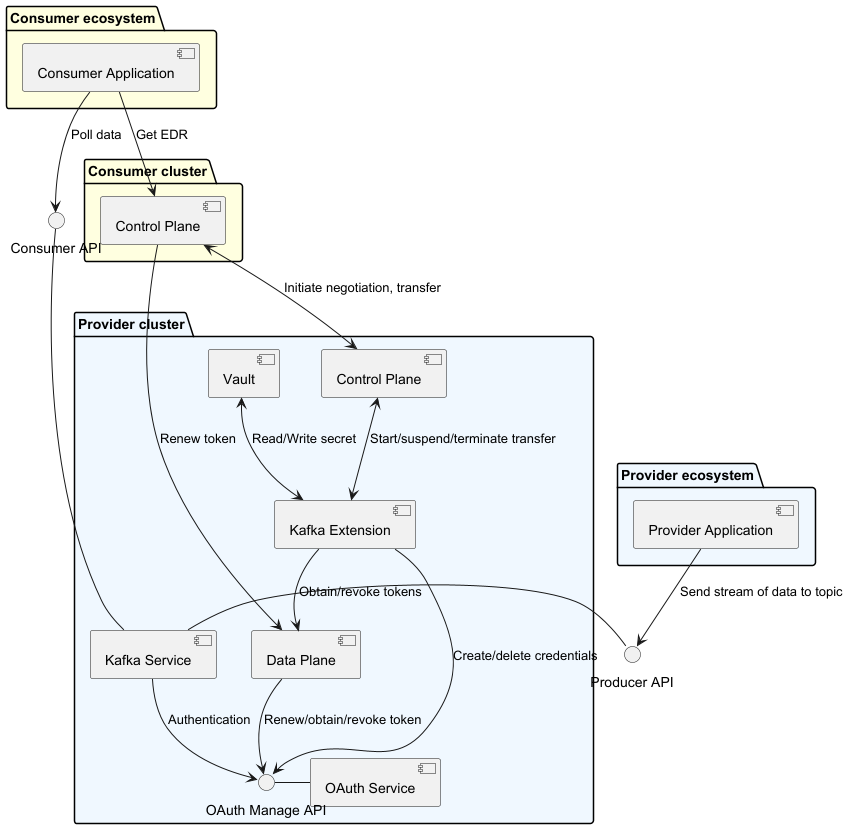
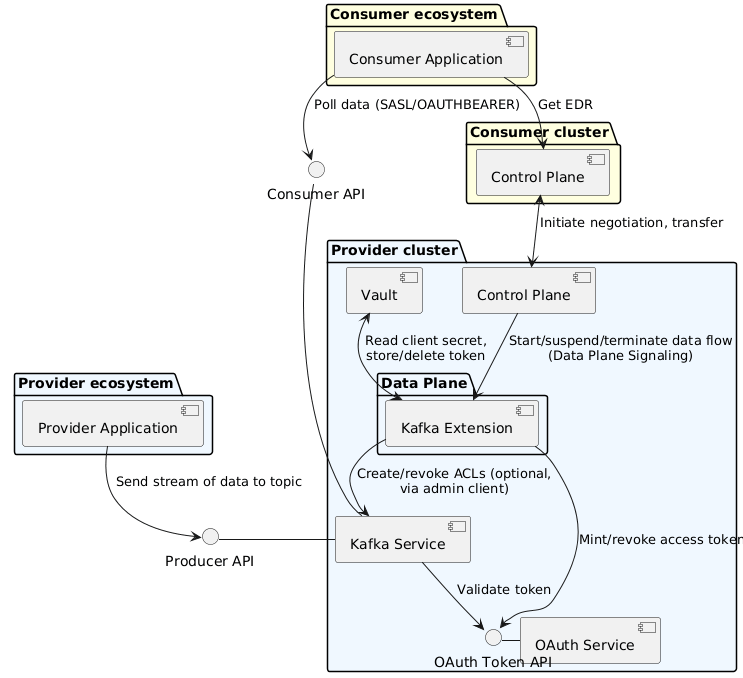
docs(kafka): align docs with data-plane lifecycle and wiring

diff --git a/edc-extensions/dataplane/kafka/kafka-broker-extension/src/main/java/org/eclipse/tractusx/edc/dataplane/kafka/provision/KafkaDeprovisioner.java b/edc-extensions/dataplane/kafka/kafka-broker-extension/src/main/java/org/eclipse/tractusx/edc/dataplane/kafka/provision/KafkaDeprovisioner.java
@@ -44,8 +44,8 @@ import static org.eclipse.tractusx.edc.dataplane.kafka.provision.KafkaProvisionC
 
 /**
  * Data-plane {@link Deprovisioner} for {@code KafkaBroker} flows: revokes the broker ACLs and the OAuth2
- * token on suspend/terminate, closing the access window independently of token expiry. Cleanup is
- * idempotent — a missing token or untracked ACLs is treated as success.
+ * token when the flow is deprovisioned on terminate, closing the access window independently of token
+ * expiry. Cleanup is idempotent — a missing token or untracked ACLs is treated as success.
  */
 public class KafkaDeprovisioner implements Deprovisioner {
 

diff --git a/docs/development/kafka-streaming/README.md b/docs/development/kafka-streaming/README.md
@@ -6,7 +6,7 @@ data-plane extension and ships in the standard `tractusx-connector` runtime (via
 so it does not require a separate deployment.
 
 Unlike a proxied transfer, data flows **directly** from the provider's Kafka broker to the consumer.
-The EDC control plane stays in charge of access: the extension provisions short-lived OAuth2
+The EDC stays in charge of access: the data-plane extension provisions short-lived OAuth2
 credentials (and, optionally, Kafka ACLs) for the duration of a negotiated transfer, so the provider
 retains full control over the consumer's access throughout.
 
@@ -22,7 +22,7 @@ retains full control over the consumer's access throughout.
   * [D. Suspending/Terminating](#d-suspendingterminating)
 * [DataAddress Schema](#dataaddress-schema)
 * [Configuration](#configuration)
-  * [EDC control plane properties](#edc-control-plane-properties)
+  * [EDC data plane properties](#edc-data-plane-properties)
   * [Kafka broker](#kafka-broker)
   * [Keycloak](#keycloak)
 * [Security and Token Model](#security-and-token-model)
@@ -93,12 +93,13 @@ The transfer is defined by four phases, each illustrated by a sequence diagram.
 **Purpose:** securely create or delete consumer credentials.
 
 1. **Provisioning:** the Consumer Control Plane sends a `TransferRequestMessage` to the Provider
-   Control Plane, which forwards a `ProvisionRequest` to the Kafka Extension. The extension calls the
-   OAuth Service to create credentials, stores them in the Vault, and a `ProvisionResponse` is
-   returned to the consumer.
-2. **Deprovisioning:** when the transfer concludes, the Provider Control Plane issues a
-   `DeprovisionRequest`; the Kafka Extension deletes the credentials via the OAuth Service, clears the
-   Vault entries, and returns a `DeprovisionResponse`.
+   Control Plane, which sends a `DataFlowStartMessage` (Data Plane Signaling) to the data plane.
+   There the Kafka Extension reads the OAuth2 client secret from the Vault, obtains a short-lived
+   access token from the OAuth Service, stores it in the Vault, and returns the provisioned Kafka
+   `DataAddress` in the `DataFlowResponseMessage`.
+2. **Deprovisioning:** when the transfer is terminated, the Provider Control Plane signals the
+   termination to the data plane; the Kafka Extension revokes the token via the OAuth Service and
+   deletes it from the Vault.
 
 ![Sequence diagram EDC Kafka Extension provisioning-deprovisioning](diagrams/Sequence%20diagram%20EDC%20Kafka%20Extension%20provisioning-deprovisioning.png)
 
@@ -108,12 +109,13 @@ The transfer is defined by four phases, each illustrated by a sequence diagram.
 
 1. The Consumer Control Plane instructs the Provider Control Plane to start the transfer; the Provider
    Control Plane performs policy and contract verification.
-2. The Provider Control Plane sends a `DataFlowRequest` to the Kafka Extension, which requests a fresh
-   OAuth2 access token from the OAuth Service via the Client Credentials flow (no refresh token) and
-   creates a `DataAddress` containing the connection details (bootstrap servers, topic, security
-   protocol, SASL mechanism, OAuth token, poll duration, consumer group prefix, and contract id). The
-   Provider Control Plane then sends a `TransferStartMessage` with the complete DataAddress to the
-   Consumer Control Plane, which constructs the final EDR.
+2. The Provider Control Plane sends a `DataFlowStartMessage` (Data Plane Signaling) to the data
+   plane, where the Kafka Extension requests a fresh OAuth2 access token from the OAuth Service via
+   the Client Credentials flow (no refresh token) and creates a `DataAddress` containing the
+   connection details (bootstrap servers, topic, security protocol, SASL mechanism, OAuth token,
+   poll duration, and consumer group prefix). The Provider Control Plane then sends a
+   `TransferStartMessage` with the complete DataAddress to the Consumer Control Plane, which
+   constructs the final EDR.
 
 ![Sequence diagram EDC Kafka Extension start transfer process](diagrams/Sequence%20diagram%20EDC%20Kafka%20Extension%20start%20transfer%20process.png)
 
@@ -132,9 +134,11 @@ new token.
 
 **Purpose:** securely suspend or terminate the transfer by revoking consumer credentials.
 
-The Provider Control Plane sends a suspend/terminate message to the Kafka Extension, which calls the
-OAuth Service to revoke the token and (when ACL management is enabled) revokes the consumer's ACLs.
-The Consumer Control Plane is notified that the transfer has been suspended or terminated.
+The Provider Control Plane signals the suspension or termination to the data plane. On suspend, the
+Kafka Extension revokes the consumer's ACLs (when ACL management is enabled); the short-lived token
+remains valid until it expires, and a resume re-creates the ACLs. On terminate, the extension
+additionally calls the OAuth Service to revoke the token and removes it from the Vault. The Consumer
+Control Plane is notified that the transfer has been suspended or terminated.
 
 ![Sequence diagram EDC Kafka Extension suspending-terminating](diagrams/Sequence%20diagram%20EDC%20Kafka%20Extension%20suspending-terminating.png)
 
@@ -154,7 +158,7 @@ A Kafka asset is published with a `DataAddress` of type `KafkaBroker`:
 | `https://w3id.org/edc/v0.0.1/ns/clientSecretKey` | Vault entry key for the OAuth2 client secret | Yes |
 | `https://w3id.org/edc/v0.0.1/ns/revokeUrl` | OAuth2 token revocation endpoint | No |
 | `https://w3id.org/edc/v0.0.1/ns/kafka.poll.duration` | ISO-8601 consumer poll duration (default `PT1S`) | No |
-| `https://w3id.org/edc/v0.0.1/ns/kafka.group.prefix` | Consumer group prefix the consumer is authorized to use; also scopes the consumer-group ACL. Defaults to the consumer BPN (policy assignee) when omitted. | No |
+| `https://w3id.org/edc/v0.0.1/ns/kafka.group.prefix` | Consumer group prefix the consumer is authorized to use; also scopes the consumer-group ACL. Defaults to the consumer participant id when omitted. | No |
 
 > Property keys may be written as full IRIs (as in the table above) or with the `edc:` prefix (as in the
 > example below); both are equivalent after JSON-LD expansion.
@@ -183,7 +187,7 @@ Example asset registration:
 
 ## Configuration
 
-### EDC control plane properties
+### EDC data plane properties
 
 | Property | Description | Default |
 |---|---|---|
@@ -235,8 +239,9 @@ The extension uses the OAuth2 Client Credentials flow:
    client credentials.
 2. The returned JWT is stored in the EDC Vault keyed by the transfer process id.
 3. The token is included in the EDR sent to the consumer.
-4. On suspend or terminate, the extension calls the token revocation URL (if configured) and deletes
-   the token from the Vault.
+4. On terminate, the extension calls the token revocation URL (if configured) and deletes the token
+   from the Vault. On suspend, broker access is cut by revoking the consumer's ACLs (when ACL
+   management is enabled) while the short-lived token simply expires.
 
 ### Token expiry and revocation
 
@@ -256,11 +261,11 @@ When `edc.dataplane.kafka.acl.enabled=true`:
 1. On transfer start, the extension extracts the `sub` claim from the JWT (used as the Kafka
    principal, `User:<sub>`).
 2. It creates three ACL bindings for that principal: `READ` and `DESCRIBE` on the topic, and `READ` on
-   the consumer group prefix (the `kafka.group.prefix`, defaulting to the consumer BPN) — the same
+   the consumer group prefix (the `kafka.group.prefix`, defaulting to the consumer participant id) — the same
    prefix handed to the consumer in the EDR, so the broker grant matches what the consumer is told to
    use.
 3. On suspend/terminate, the ACLs are revoked immediately — closing the access window even before the
-   token expires.
+   token expires. On resume they are re-created.
 
 See the [Hybrid OAuth2 + Kafka ACL Security](../decision-records/kafka-streaming/2025-07-11-kafka-hybrid-acl-security/README.md)
 decision record for the rationale.
@@ -306,12 +311,12 @@ particular [Modules, Runtimes, and Components](https://eclipse-edc.github.io/doc
 ## Troubleshooting
 
 **Connection issues**
-- Verify Kafka bootstrap servers are reachable from the EDC control plane.
+- Verify Kafka bootstrap servers are reachable from the EDC data plane.
 - Check that the security protocol and SASL mechanism match the broker configuration.
 
 **Authentication issues**
 - Verify the OAuth2 client credentials are correct and stored in the Vault.
-- Check that the token URL is reachable from the EDC control plane.
+- Check that the token URL is reachable from the EDC data plane.
 - Confirm the Vault key name matches `clientSecretKey` in the data address.
 
 **ACL issues** (only when ACL management is enabled)

diff --git a/edc-extensions/dataplane/kafka/kafka-broker-extension/README.md b/edc-extensions/dataplane/kafka/kafka-broker-extension/README.md
@@ -24,15 +24,18 @@ via a provisioner and an EDR service. The provisioning lifecycle:
 1. **start** — provisions a fresh OAuth2 access token via the Client Credentials
    flow, stores it in the provider vault keyed by the transfer process id, and
    returns an EDR containing the bootstrap servers, topic, security protocol, SASL
-   mechanism, consumer group prefix, poll duration, contract id, and token. When ACL
+   mechanism, consumer group prefix, poll duration, and token. When ACL
    management is enabled, it also creates the consumer's Kafka ACLs.
-2. **suspend / terminate** — revokes the token at the OAuth2 server's revocation
-   endpoint (if a `revokeUrl` is configured), removes it from the vault, and — when
-   ACL management is enabled — revokes the consumer's ACLs.
+2. **suspend** — revokes the consumer's ACLs (when ACL management is enabled), cutting
+   broker access immediately; the short-lived token itself stays in the vault and remains
+   valid until it expires. On **resume** the ACLs are re-created.
+3. **terminate** — revokes the token at the OAuth2 server's revocation endpoint (if a
+   `revokeUrl` is configured), removes it from the vault, and — when ACL management is
+   enabled — revokes the consumer's ACLs.
 
 ## Configuration
 
-Kafka ACL management is optional and disabled by default. When enabled, the control plane manages
+Kafka ACL management is optional and disabled by default. When enabled, the data plane manages
 broker-level authorization for each transfer through a Kafka admin client. The following settings configure
 that admin client (see also the [Kafka Streaming documentation](../../../../docs/development/kafka-streaming/README.md#configuration)):
 
@@ -51,19 +54,19 @@ enabled (`edc.dataplane.kafka.acl.enabled=true`).
 
 When creating a Kafka asset, use the following properties in the `DataAddress`:
 
-| Key                       | Description                                                                                            | Mandatory |
-|---------------------------|--------------------------------------------------------------------------------------------------------|-----------|
-| `type`                    | Identifier of Kafka data address. Must be `KafkaBroker`.                                               | yes       |
-| `topic`                   | The Kafka topic the consumer is allowed to poll.                                                       | yes       |
-| `kafka.bootstrap.servers` | Kafka bootstrap servers.                                                                               | yes       |
-| `kafka.sasl.mechanism`    | SASL mechanism, typically `OAUTHBEARER`.                                                               | yes       |
-| `kafka.security.protocol` | `SASL_PLAINTEXT` or `SASL_SSL`.                                                                        | yes       |
-| `kafka.poll.duration`     | ISO-8601 polling duration (e.g. `PT10S`). Defaults to 1 second.                                        | no        |
-| `kafka.group.prefix`      | Consumer group prefix the consumer is authorized to use. Defaults to the consumer BPN (policy assignee).| no        |
-| `tokenUrl`                | OAuth2 token endpoint for retrieving access tokens.                                                    | yes       |
-| `revokeUrl`               | OAuth2 token revocation endpoint. If omitted, token revocation is skipped.                             | no        |
-| `clientId`                | OAuth2 client ID.                                                                                      | yes       |
-| `clientSecretKey`         | Vault entry containing the OAuth2 client secret for `clientId`.                                        | yes       |
+| Key                       | Description                                                                                       | Mandatory |
+|---------------------------|---------------------------------------------------------------------------------------------------|-----------|
+| `type`                    | Identifier of Kafka data address. Must be `KafkaBroker`.                                          | yes       |
+| `topic`                   | The Kafka topic the consumer is allowed to poll.                                                  | yes       |
+| `kafka.bootstrap.servers` | Kafka bootstrap servers.                                                                          | yes       |
+| `kafka.sasl.mechanism`    | SASL mechanism, typically `OAUTHBEARER`.                                                          | yes       |
+| `kafka.security.protocol` | `SASL_PLAINTEXT` or `SASL_SSL`.                                                                   | yes       |
+| `kafka.poll.duration`     | ISO-8601 polling duration (e.g. `PT10S`). Defaults to 1 second.                                   | no        |
+| `kafka.group.prefix`      | Consumer group prefix the consumer is authorized to use. Defaults to the consumer participant id. | no        |
+| `tokenUrl`                | OAuth2 token endpoint for retrieving access tokens.                                               | yes       |
+| `revokeUrl`               | OAuth2 token revocation endpoint. If omitted, token revocation is skipped.                        | no        |
+| `clientId`                | OAuth2 client ID.                                                                                 | yes       |
+| `clientSecretKey`         | Vault entry containing the OAuth2 client secret for `clientId`.                                   | yes       |
 
 The `clientSecretKey` property must point to a vault entry holding the OAuth2
 client secret. The client must have permission to read the configured topic.

diff --git a/docs/development/decision-records/kafka-streaming/2026-04-30-kafka-streaming-extension/README.md b/docs/development/decision-records/kafka-streaming/2026-04-30-kafka-streaming-extension/README.md
@@ -59,10 +59,11 @@ the upstream convention used by `dataplane-proxy-http`. There is no separate
 
 Each transfer mints a fresh OAuth2 access token via the Client Credentials flow.
 The token is stored in the provider vault keyed by the transfer process id, and
-included in the EDR returned to the consumer. On suspend/terminate, the extension calls
-the provider's OAuth2 revocation endpoint and removes the token from the vault; because
-the broker validates the JWT by signature and expiry, immediate broker-level cutoff is
-provided by ACL revocation (see below), otherwise access ends at the token's TTL.
+included in the EDR returned to the consumer. On terminate, the extension calls
+the provider's OAuth2 revocation endpoint and removes the token from the vault; suspend
+leaves the token untouched. Because the broker validates the JWT by signature and expiry,
+immediate broker-level cutoff on suspend/terminate is provided by ACL revocation (see
+below), otherwise access ends at the token's TTL.
 
 ### Kafka ACL management
 
@@ -77,11 +78,13 @@ window independently of token expiry. The ACL admin client is configured via the
 
 ### Runtime wiring
 
-`kafka-broker-extension` is a data-plane extension and is added as a `runtimeOnly` dependency of
-`edc-dataplane-base`; `validator-data-address-kafka` stays on `edc-controlplane-base` (DataAddress
+`kafka-broker-extension` is a data-plane extension and is wired into `edc-dataplane-base` as an
+`implementation` project dependency (matching the other bundled extensions);
+`validator-data-address-kafka` is wired into `edc-controlplane-base` the same way (DataAddress
 validation at asset creation). On EDC 0.16.0 the extension registers a `ResourceDefinitionGenerator`
-plus a `Provisioner`/`Deprovisioner` (mint the OAuth token, create/revoke Kafka ACLs) and an
-`EndpointDataReferenceService` that returns the broker EDR. There is no proxied data plane — the
+plus a `Provisioner`/`Deprovisioner` (mint and revoke the OAuth token) and an
+`EndpointDataReferenceService` that returns the broker EDR and creates/revokes the Kafka ACLs per
+activation (start/resume and suspend/terminate). There is no proxied data plane — the
 consumer reads directly from the broker using the EDR. (The original control-plane `DataFlowController`
 approach was removed when EDC 0.16.0 dropped `DataFlowManager`; see the EDC *inline-data-flow-manager*
 decision record.)
